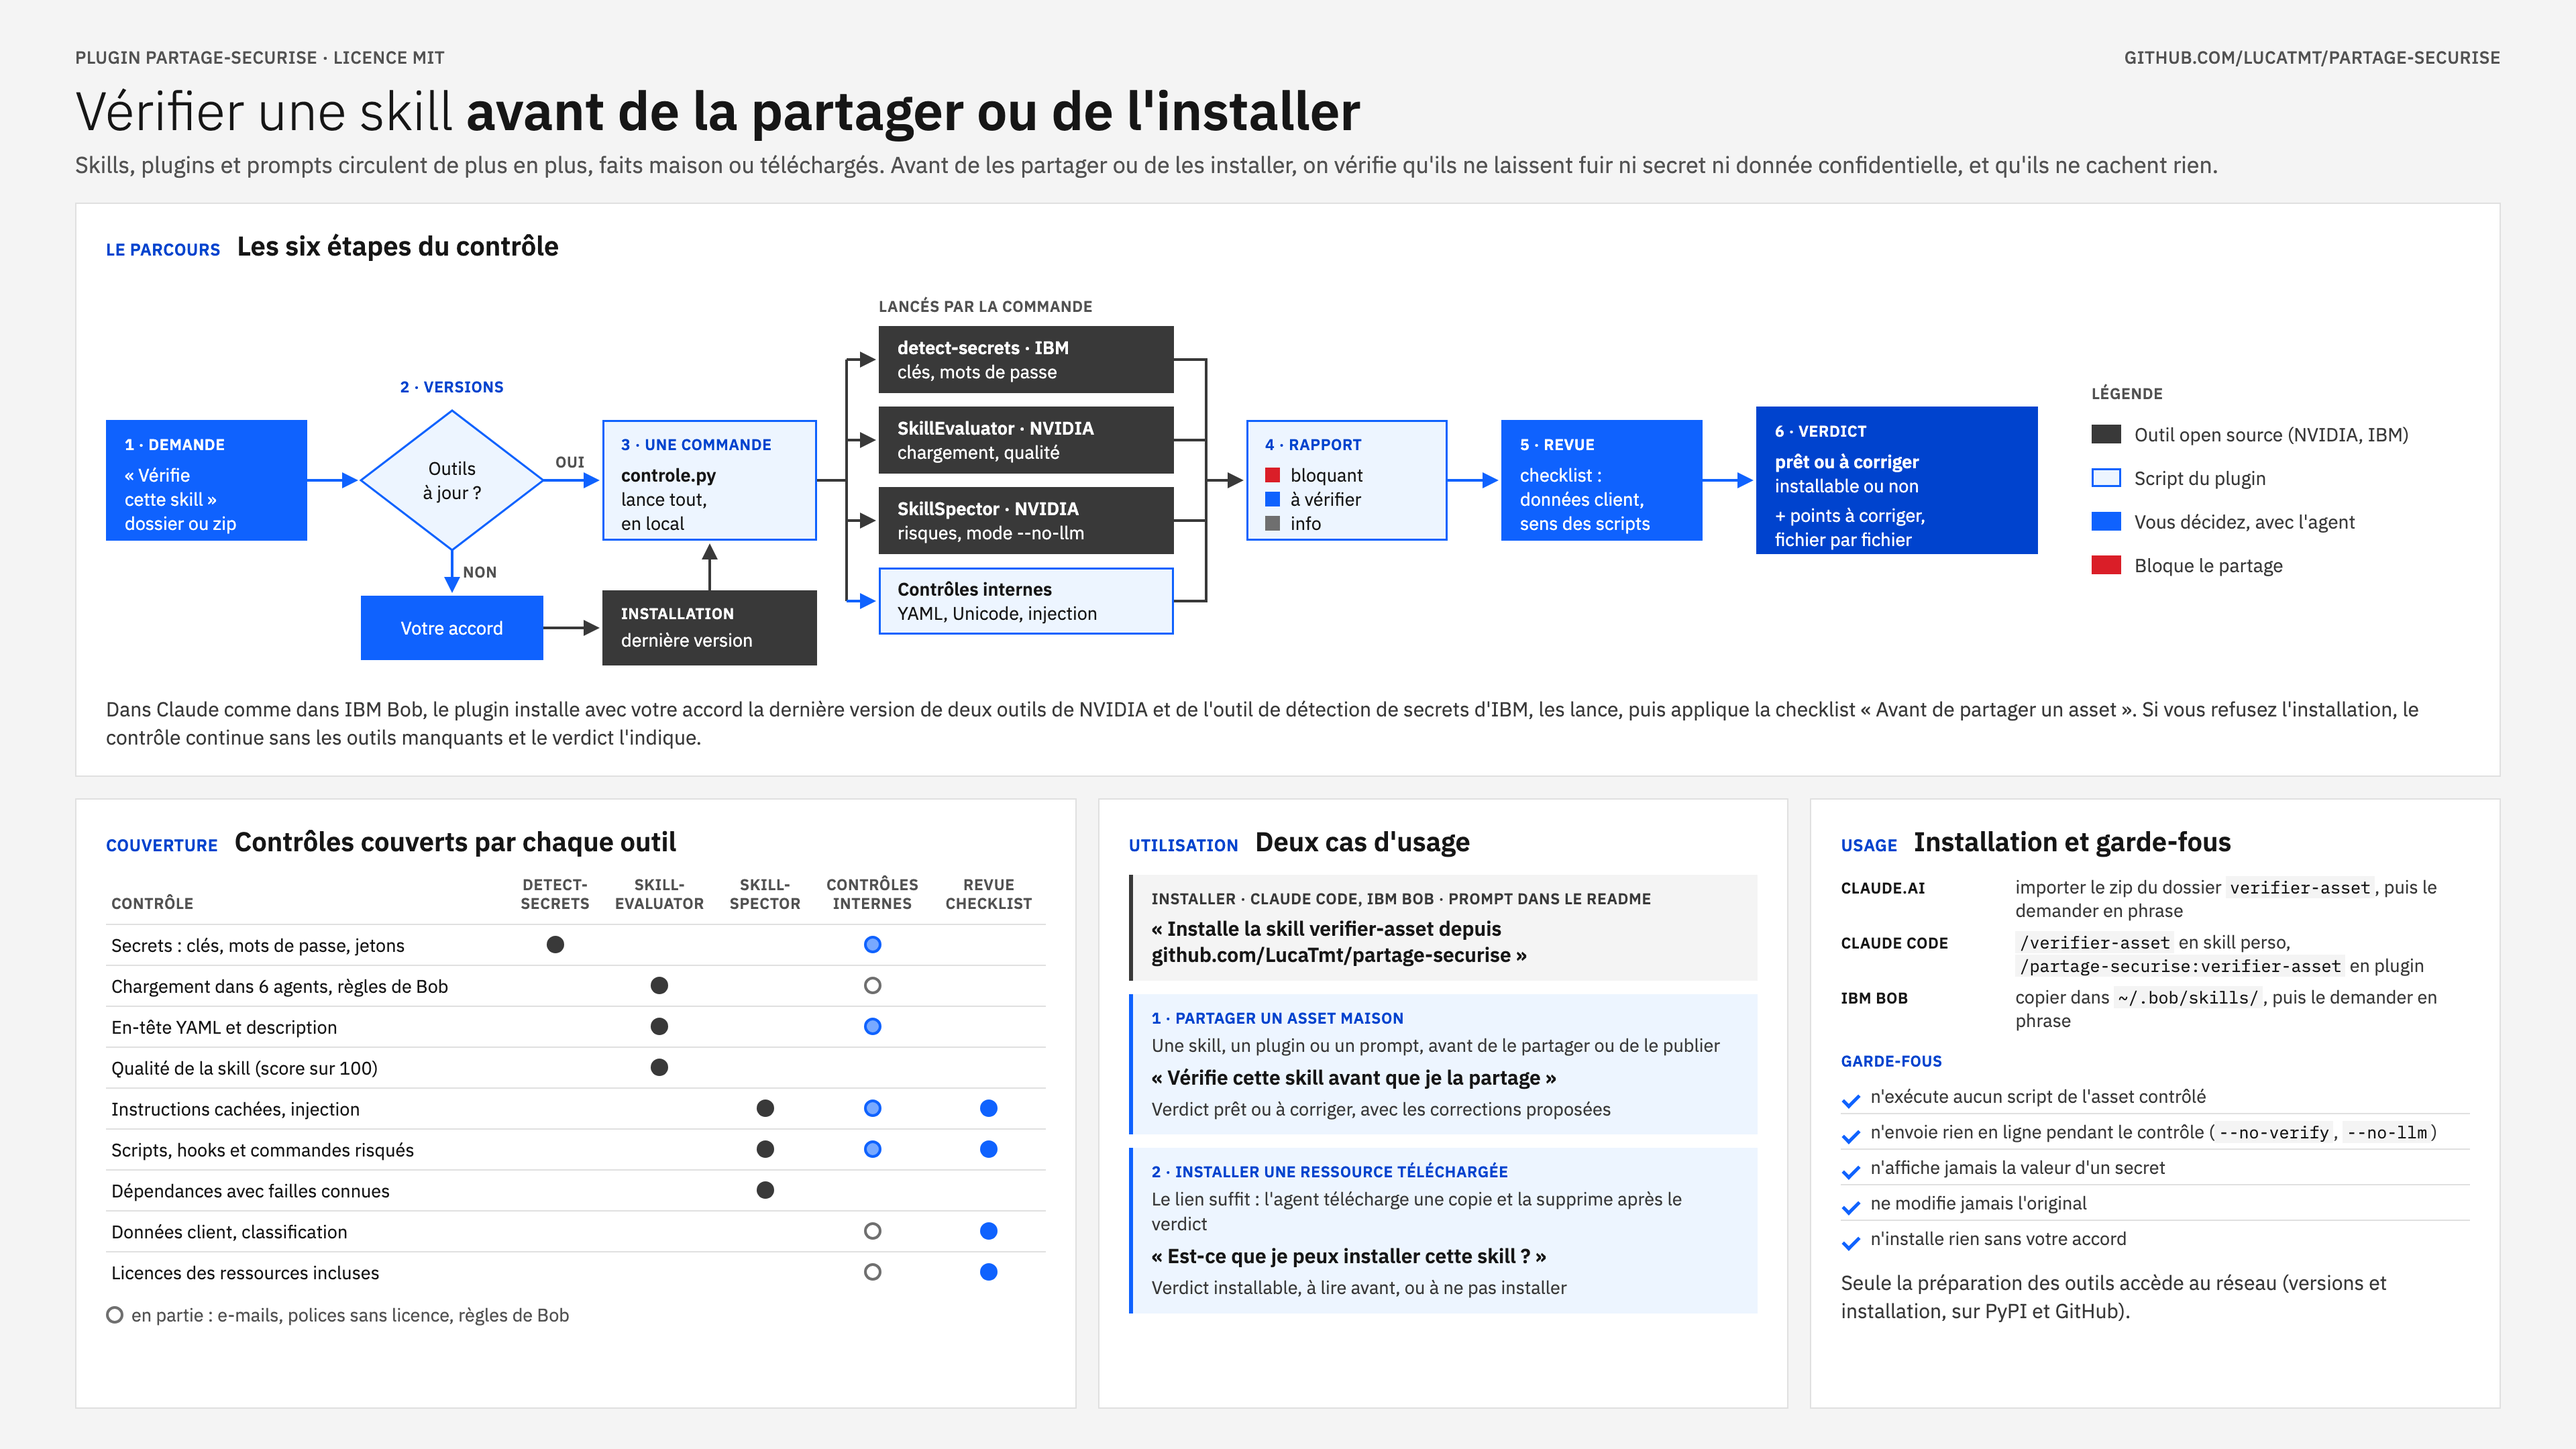
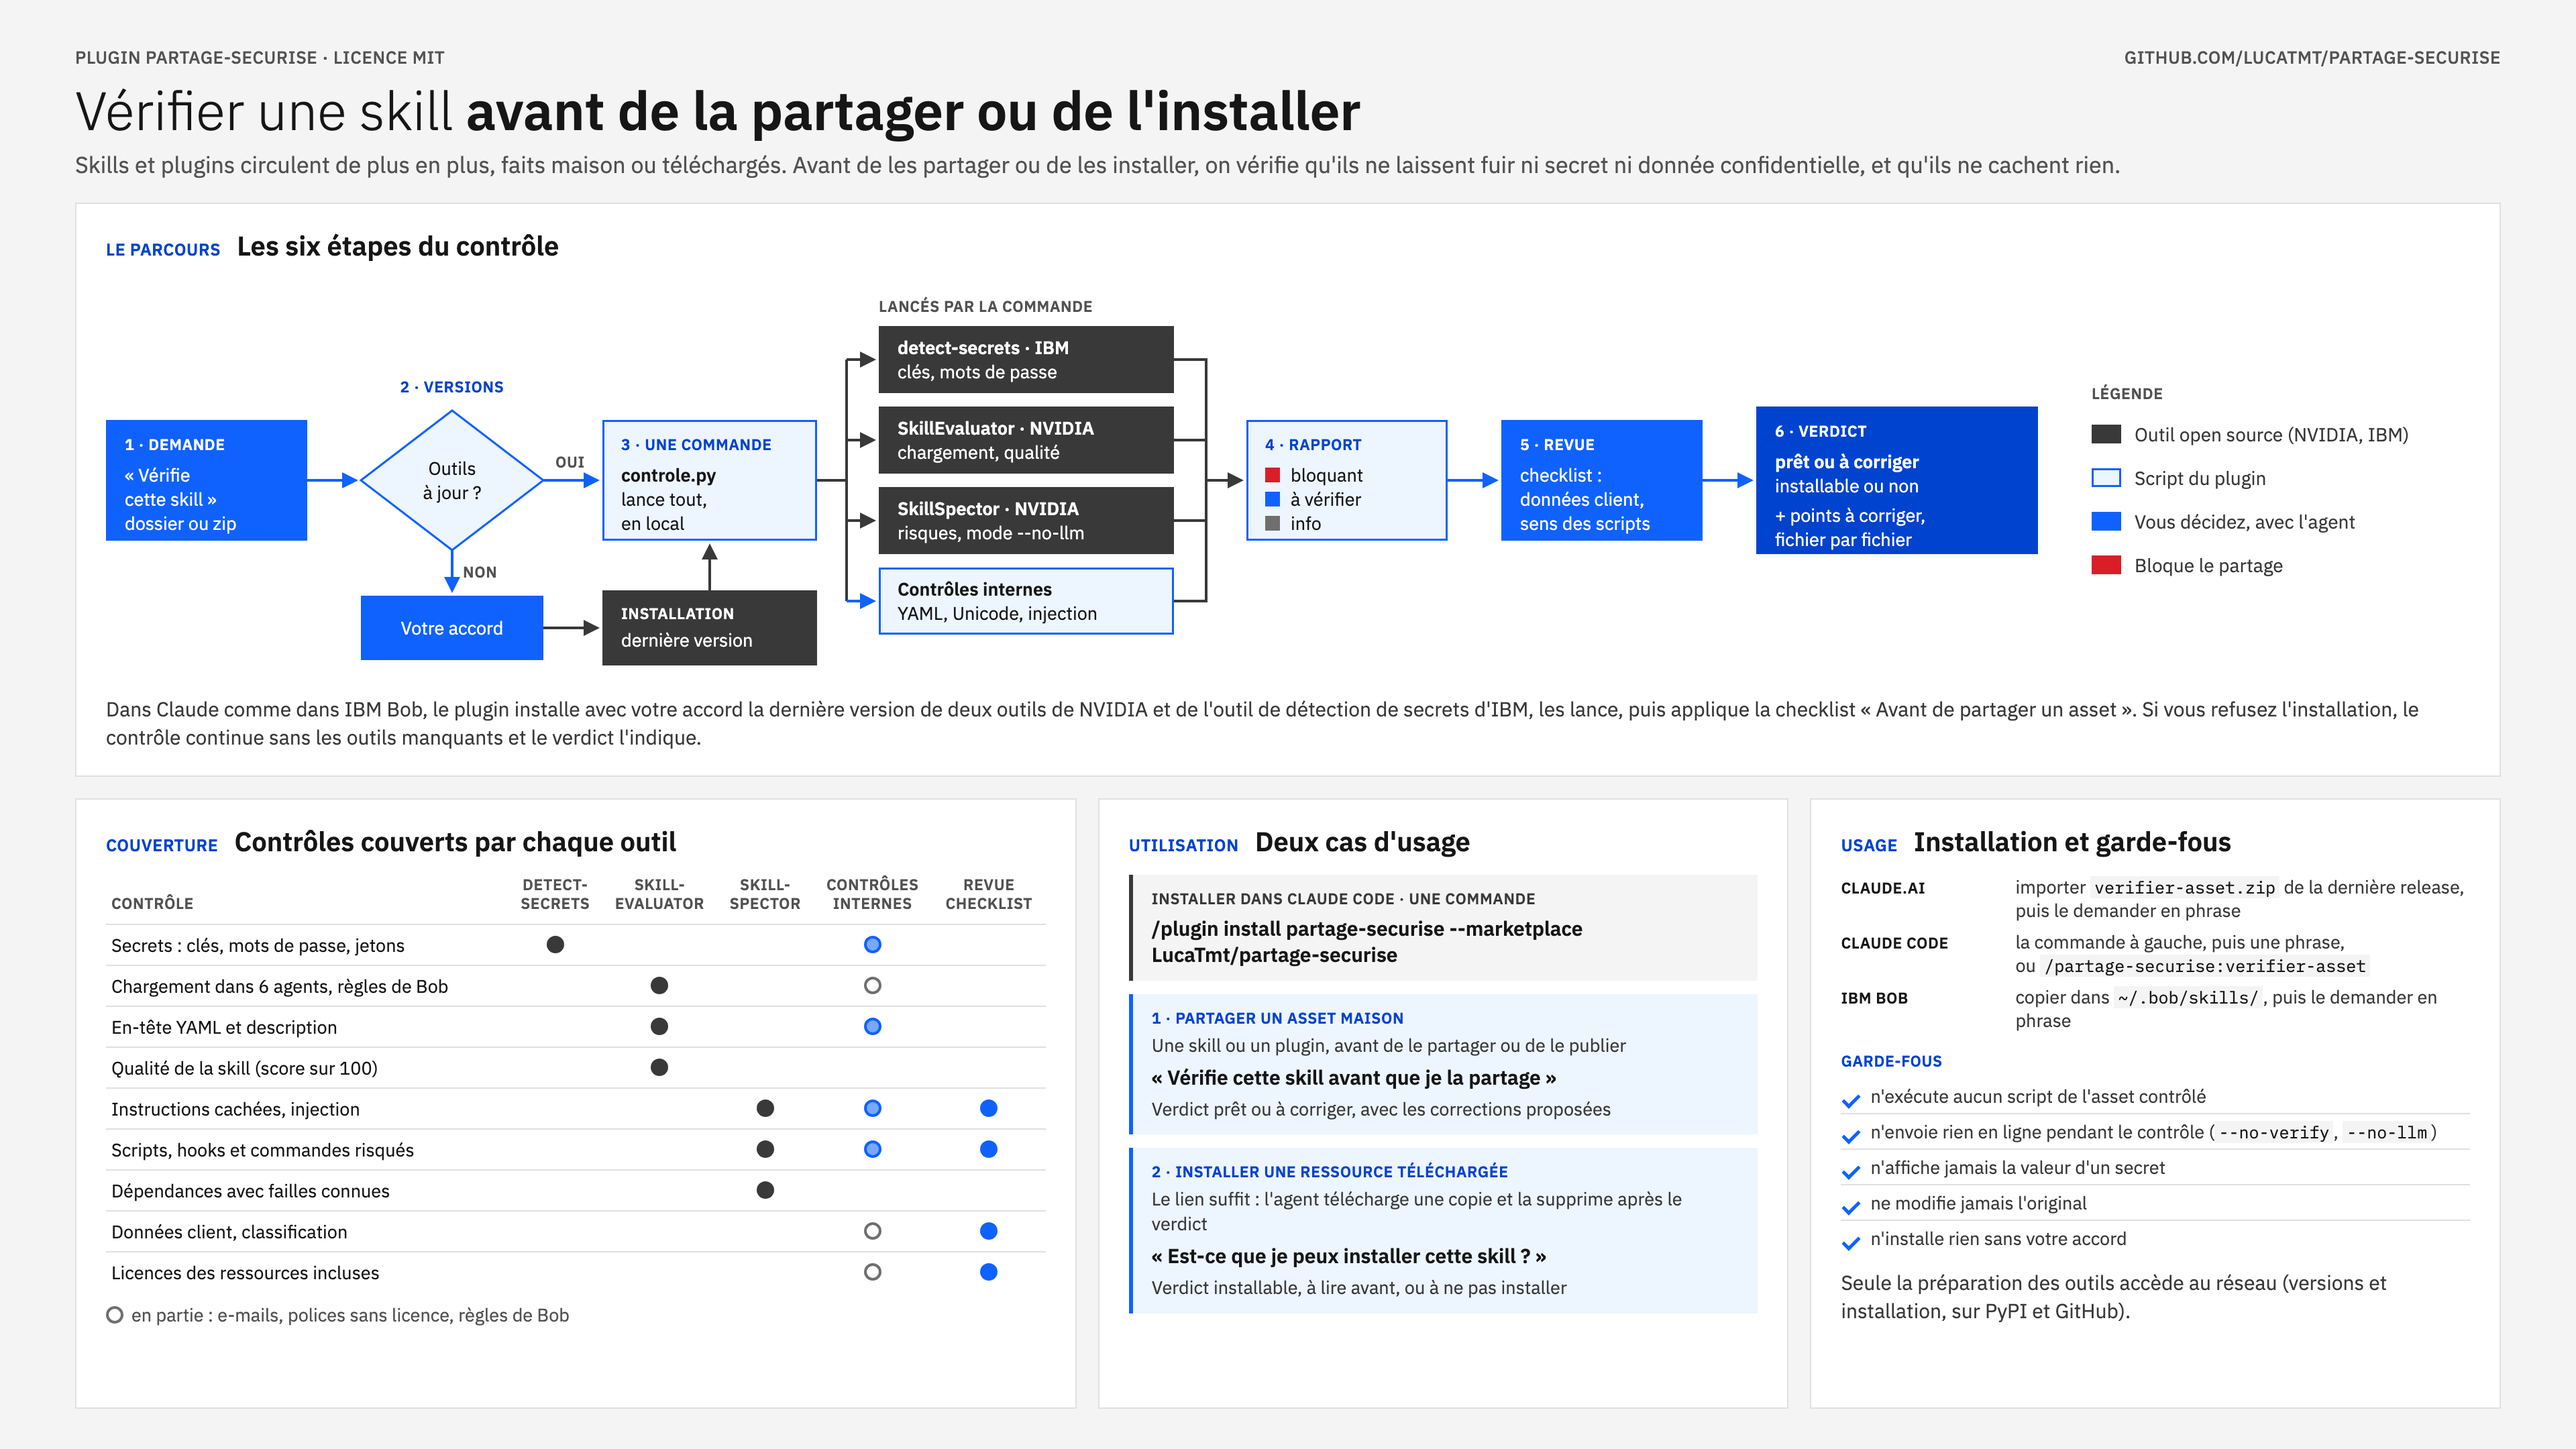
La skill se présente comme un contrôle de skills et de plugins
Le prompt sort des promesses de premier plan (description de la skill,
marketplace, accueil, résumé anglais, LISEZMOI, one-pager) : sans
SKILL.md, SkillEvaluator et SkillSpector ne tournent pas. Un fichier
seul reste accepté en cas secondaire, avec sa limite écrite dans la
skill et le README. Le one-pager montre l'installation en une commande
et le zip de la release.

diff --git a/plugins/partage-securise/skills/verifier-asset/SKILL.md b/plugins/partage-securise/skills/verifier-asset/SKILL.md
@@ -1,6 +1,6 @@
 ---
 name: verifier-asset
-description: "Contrôle une skill, un plugin, un prompt ou un asset avant de le partager, ou avant d'installer une ressource téléchargée : secrets, données client, en-tête YAML, chargement dans les agents, analyse SkillSpector, scripts et instructions cachées, puis rend un verdict. À utiliser quand on veut partager, poster, publier, installer ou vérifier une skill, un plugin ou un asset. Use it to check a skill, plugin or prompt before sharing or installing it."
+description: "Contrôle une skill ou un plugin avant de le partager, ou avant d'installer une ressource téléchargée : secrets, données client, en-tête YAML, chargement dans les agents, analyse SkillSpector, scripts et instructions cachées, puis rend un verdict. À utiliser quand on veut partager, poster, publier, installer ou vérifier une skill, un plugin ou un asset. Use it to check a skill or plugin before sharing or installing it."
 license: MIT
 metadata:
   author: "Luca Temst"
@@ -41,7 +41,7 @@ La checklist complète est dans `references/checklist.md`.
 Établir avec l'utilisateur, en une question au plus si ce n'est pas clair :
 
 - le **mode** : `partager` (un asset qu'on a produit, avant de le partager ou de le publier) ou `installer` (une ressource téléchargée, avant de l'installer) ;
-- le **chemin** : un dossier de skill, un dossier de plugin, une archive `.zip`, `.skill` ou `.plugin`, ou un fichier seul (prompt, gabarit, script), contrôlé sur une copie. Si l'asset est sur le web ou dans un dépôt, l'utilisateur peut donner le lien : créer un dossier temporaire neuf (par exemple avec `mktemp -d`), noter son chemin exact, et y télécharger le fichier, ou le zip du dépôt ou de la release, sans rien exécuter ni installer. Ne pas utiliser `git clone --recurse-submodules`, `pip download`, `npm pack` ni aucun outil qui lance du code. Un lien qui demande une connexion (intranet, Box, SharePoint) ne se télécharge pas tel quel : demander à l'utilisateur de télécharger le fichier et de donner son chemin.
+- le **chemin** : un dossier de skill, un dossier de plugin, une archive `.zip`, `.skill` ou `.plugin`, ou, en cas secondaire, un fichier seul (prompt, gabarit, script), dont le contrôle est partiel (voir « Limites »). Tout est contrôlé sur une copie. Si l'asset est sur le web ou dans un dépôt, l'utilisateur peut donner le lien : créer un dossier temporaire neuf (par exemple avec `mktemp -d`), noter son chemin exact, et y télécharger le fichier, ou le zip du dépôt ou de la release, sans rien exécuter ni installer. Ne pas utiliser `git clone --recurse-submodules`, `pip download`, `npm pack` ni aucun outil qui lance du code. Un lien qui demande une connexion (intranet, Box, SharePoint) ne se télécharge pas tel quel : demander à l'utilisateur de télécharger le fichier et de donner son chemin.
 
 ## Étape 2 : préparer les outils
 
@@ -128,5 +128,6 @@ Le contrôle aide à décider ; un verdict « prêt » n'est pas une garantie.
 - Le contenu des PDF, des fichiers Office et des images n'est pas lu : ni texte, ni métadonnées (auteur, propriétés, EXIF). Ces fichiers sont signalés comme non analysés et relèvent de la revue manuelle.
 - Les archives imbriquées ne sont pas ouvertes.
 - SkillSpector tourne en analyse statique (`--no-llm`) : il repère des formes, pas des intentions. La lecture des scripts reste à faire.
+- Un fichier seul, sans `SKILL.md` (prompt, gabarit, script), n'est contrôlé qu'en partie : SkillEvaluator et SkillSpector ne tournent pas ; restent detect-secrets, les contrôles internes et la checklist.
 - `harness-check` ne teste pas IBM Bob.
 - Le contrôle porte sur la copie examinée : une ressource téléchargée de nouveau peut avoir changé.

diff --git a/README.md b/README.md
@@ -4,13 +4,13 @@
 
 ![Vérifier une skill avant de la partager ou de l'installer : le parcours en six étapes, les contrôles couverts par chaque outil, les cas d'usage et les garde-fous](docs/one-pager.png)
 
-Avant de partager une skill, un plugin ou un prompt, ou avant d'installer une ressource téléchargée, on vérifie qu'il ne contient ni secret oublié, ni donnée personnelle, ni instruction cachée, ni script suspect. Ce dépôt fournit la skill **`verifier-asset`**, qui fait ce contrôle et rend un verdict avec les points à corriger.
+Avant de partager une skill ou un plugin, ou avant d'installer une ressource téléchargée, on vérifie qu'il ne contient ni secret oublié, ni donnée personnelle, ni instruction cachée, ni script suspect. Ce dépôt fournit la skill **`verifier-asset`**, qui fait ce contrôle et rend un verdict avec les points à corriger.
 
 Elle fonctionne dans Claude (claude.ai, Cowork, Claude Code) et dans d'autres agents qui lisent le format des skills.
 
 ## In English
 
-`verifier-asset` is an agent skill that checks a skill, a plugin or a prompt before you share it, or a downloaded one before you install it: leaked secrets, personal or confidential data, hidden instructions, risky scripts. It runs three open-source scanners from specialist vendors (NVIDIA SkillEvaluator and SkillSpector, IBM detect-secrets), keeps them up to date with your consent, merges their findings into a single report, then reviews what no tool can see. Install it in Claude Code with `/plugin install partage-securise --marketplace LucaTmt/partage-securise`, then ask: “check this skill before I share it”. The documentation and the skill's instructions are in French.
+`verifier-asset` is an agent skill that checks a skill or a plugin before you share it, or a downloaded one before you install it: leaked secrets, personal or confidential data, hidden instructions, risky scripts. It runs three open-source scanners from specialist vendors (NVIDIA SkillEvaluator and SkillSpector, IBM detect-secrets), keeps them up to date with your consent, merges their findings into a single report, then reviews what no tool can see. Install it in Claude Code with `/plugin install partage-securise --marketplace LucaTmt/partage-securise`, then ask: “check this skill before I share it”. The documentation and the skill's instructions are in French.
 
 ## Le principe : s'appuyer sur des spécialistes, et agréger
 

diff --git a/plugins/partage-securise/README.md b/plugins/partage-securise/README.md
@@ -1,6 +1,6 @@
 # partage-securise
 
-Un plugin qui contrôle une skill, un plugin, un prompt ou tout autre asset avant de le partager, ou une ressource téléchargée avant de l'installer. Il repère les secrets oubliés, les données personnelles, les instructions cachées et les scripts suspects, puis rend un verdict avec les points à corriger. Il fonctionne dans Claude (claude.ai, Cowork, Claude Code) et dans d'autres agents qui lisent le format des skills.
+Un plugin qui contrôle une skill ou un plugin avant de le partager, ou une ressource téléchargée avant de l'installer. Il repère les secrets oubliés, les données personnelles, les instructions cachées et les scripts suspects, puis rend un verdict avec les points à corriger. Il fonctionne dans Claude (claude.ai, Cowork, Claude Code) et dans d'autres agents qui lisent le format des skills.
 
 ## Sur quoi il s'appuie
 
@@ -151,7 +151,7 @@ python3 partage-securise/skills/verifier-asset/scripts/installer_outils.py --ins
 python3 partage-securise/skills/verifier-asset/scripts/controle.py ./mon-asset --mode partager
 ```
 
-L'asset peut être un dossier, une archive `.zip`, `.skill` ou `.plugin`, ou un fichier seul (prompt, gabarit, script). Codes de sortie : 0 = rien relevé, 1 = points à vérifier (dont un outil qui n'a pas tourné), 2 = au moins un point bloquant, 3 = contrôle impossible.
+L'asset peut être un dossier, une archive `.zip`, `.skill` ou `.plugin`, ou, en cas secondaire, un fichier seul (prompt, gabarit, script), contrôlé en partie seulement : sans `SKILL.md`, SkillEvaluator et SkillSpector ne tournent pas. Codes de sortie : 0 = rien relevé, 1 = points à vérifier (dont un outil qui n'a pas tourné), 2 = au moins un point bloquant, 3 = contrôle impossible.
 
 En pratique, il suffit de demander à l'agent « vérifie cette skill » : la skill fait le point sur les outils, propose l'installation et attend votre accord, puis lance le contrôle.
 

diff --git a/CHANGELOG.md b/CHANGELOG.md
@@ -16,6 +16,7 @@ Les versions suivent le [versionnage sémantique](https://semver.org/lang/fr/) :
 
 ### Modifié
 
+- La skill se présente comme un contrôle de skills et de plugins. Un fichier seul (prompt, gabarit, script) reste accepté, en cas secondaire : sans `SKILL.md`, seuls detect-secrets, les contrôles internes et la checklist s'appliquent.
 - La skill, sa checklist et la documentation ne renvoient plus à un contexte d'entreprise.
 
 ### Choix
